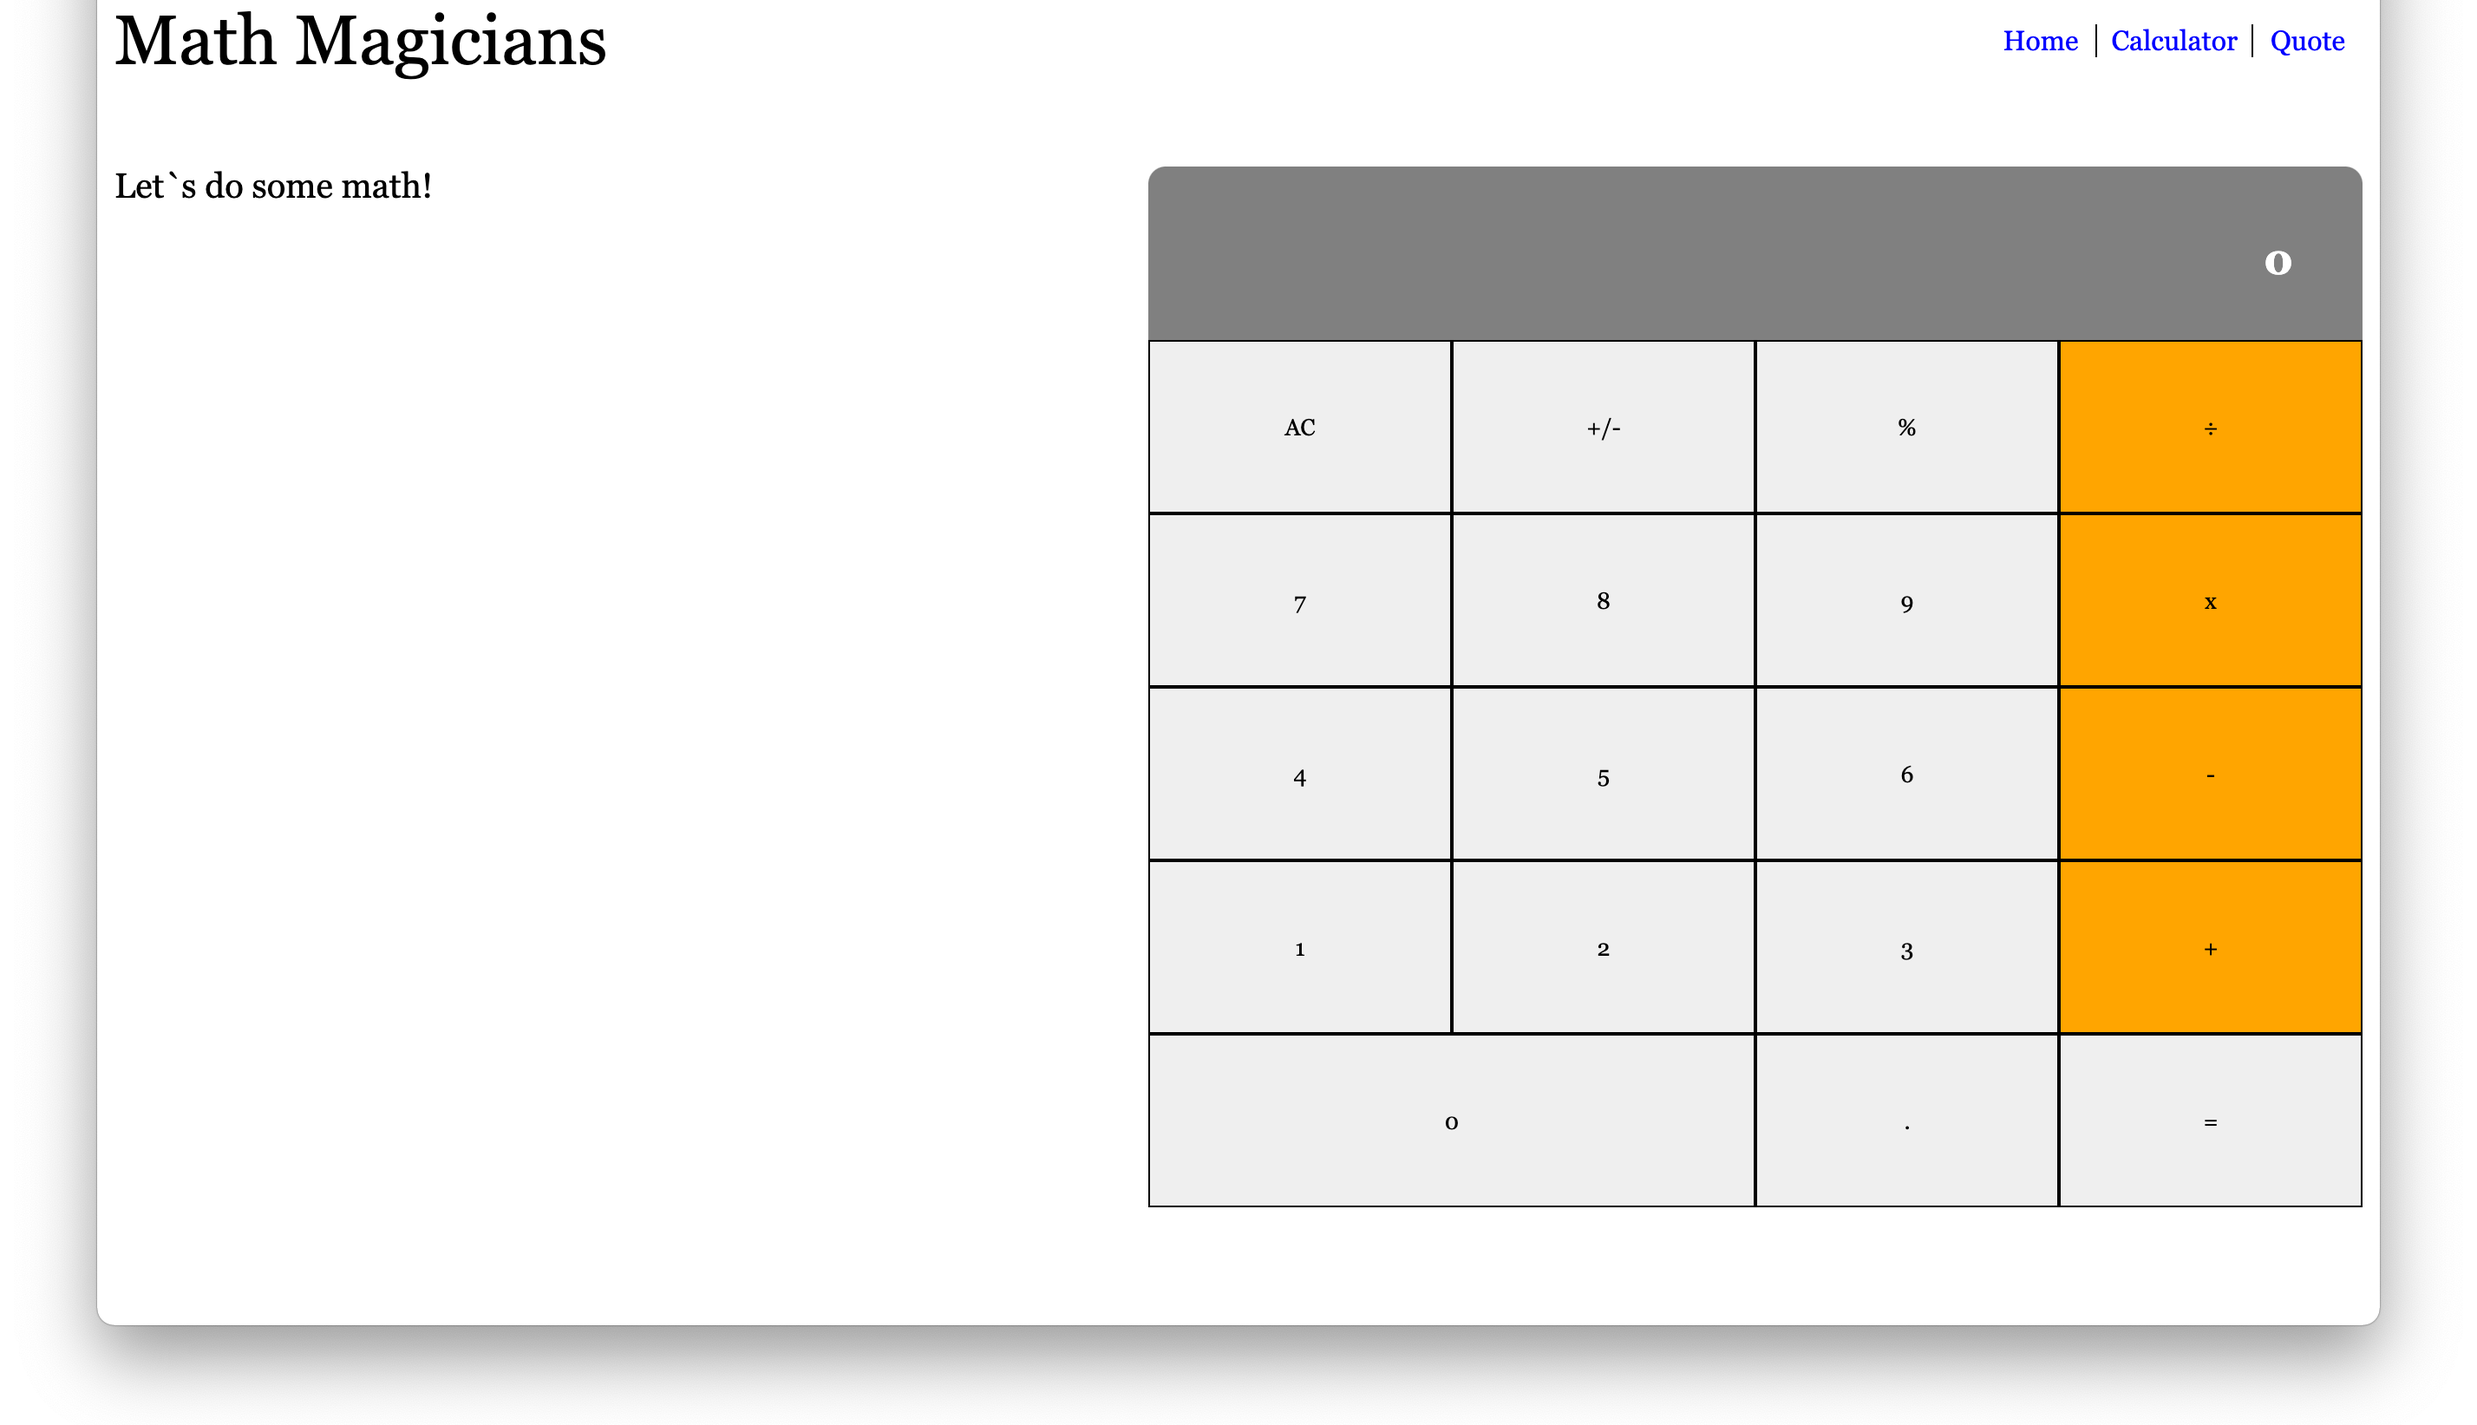
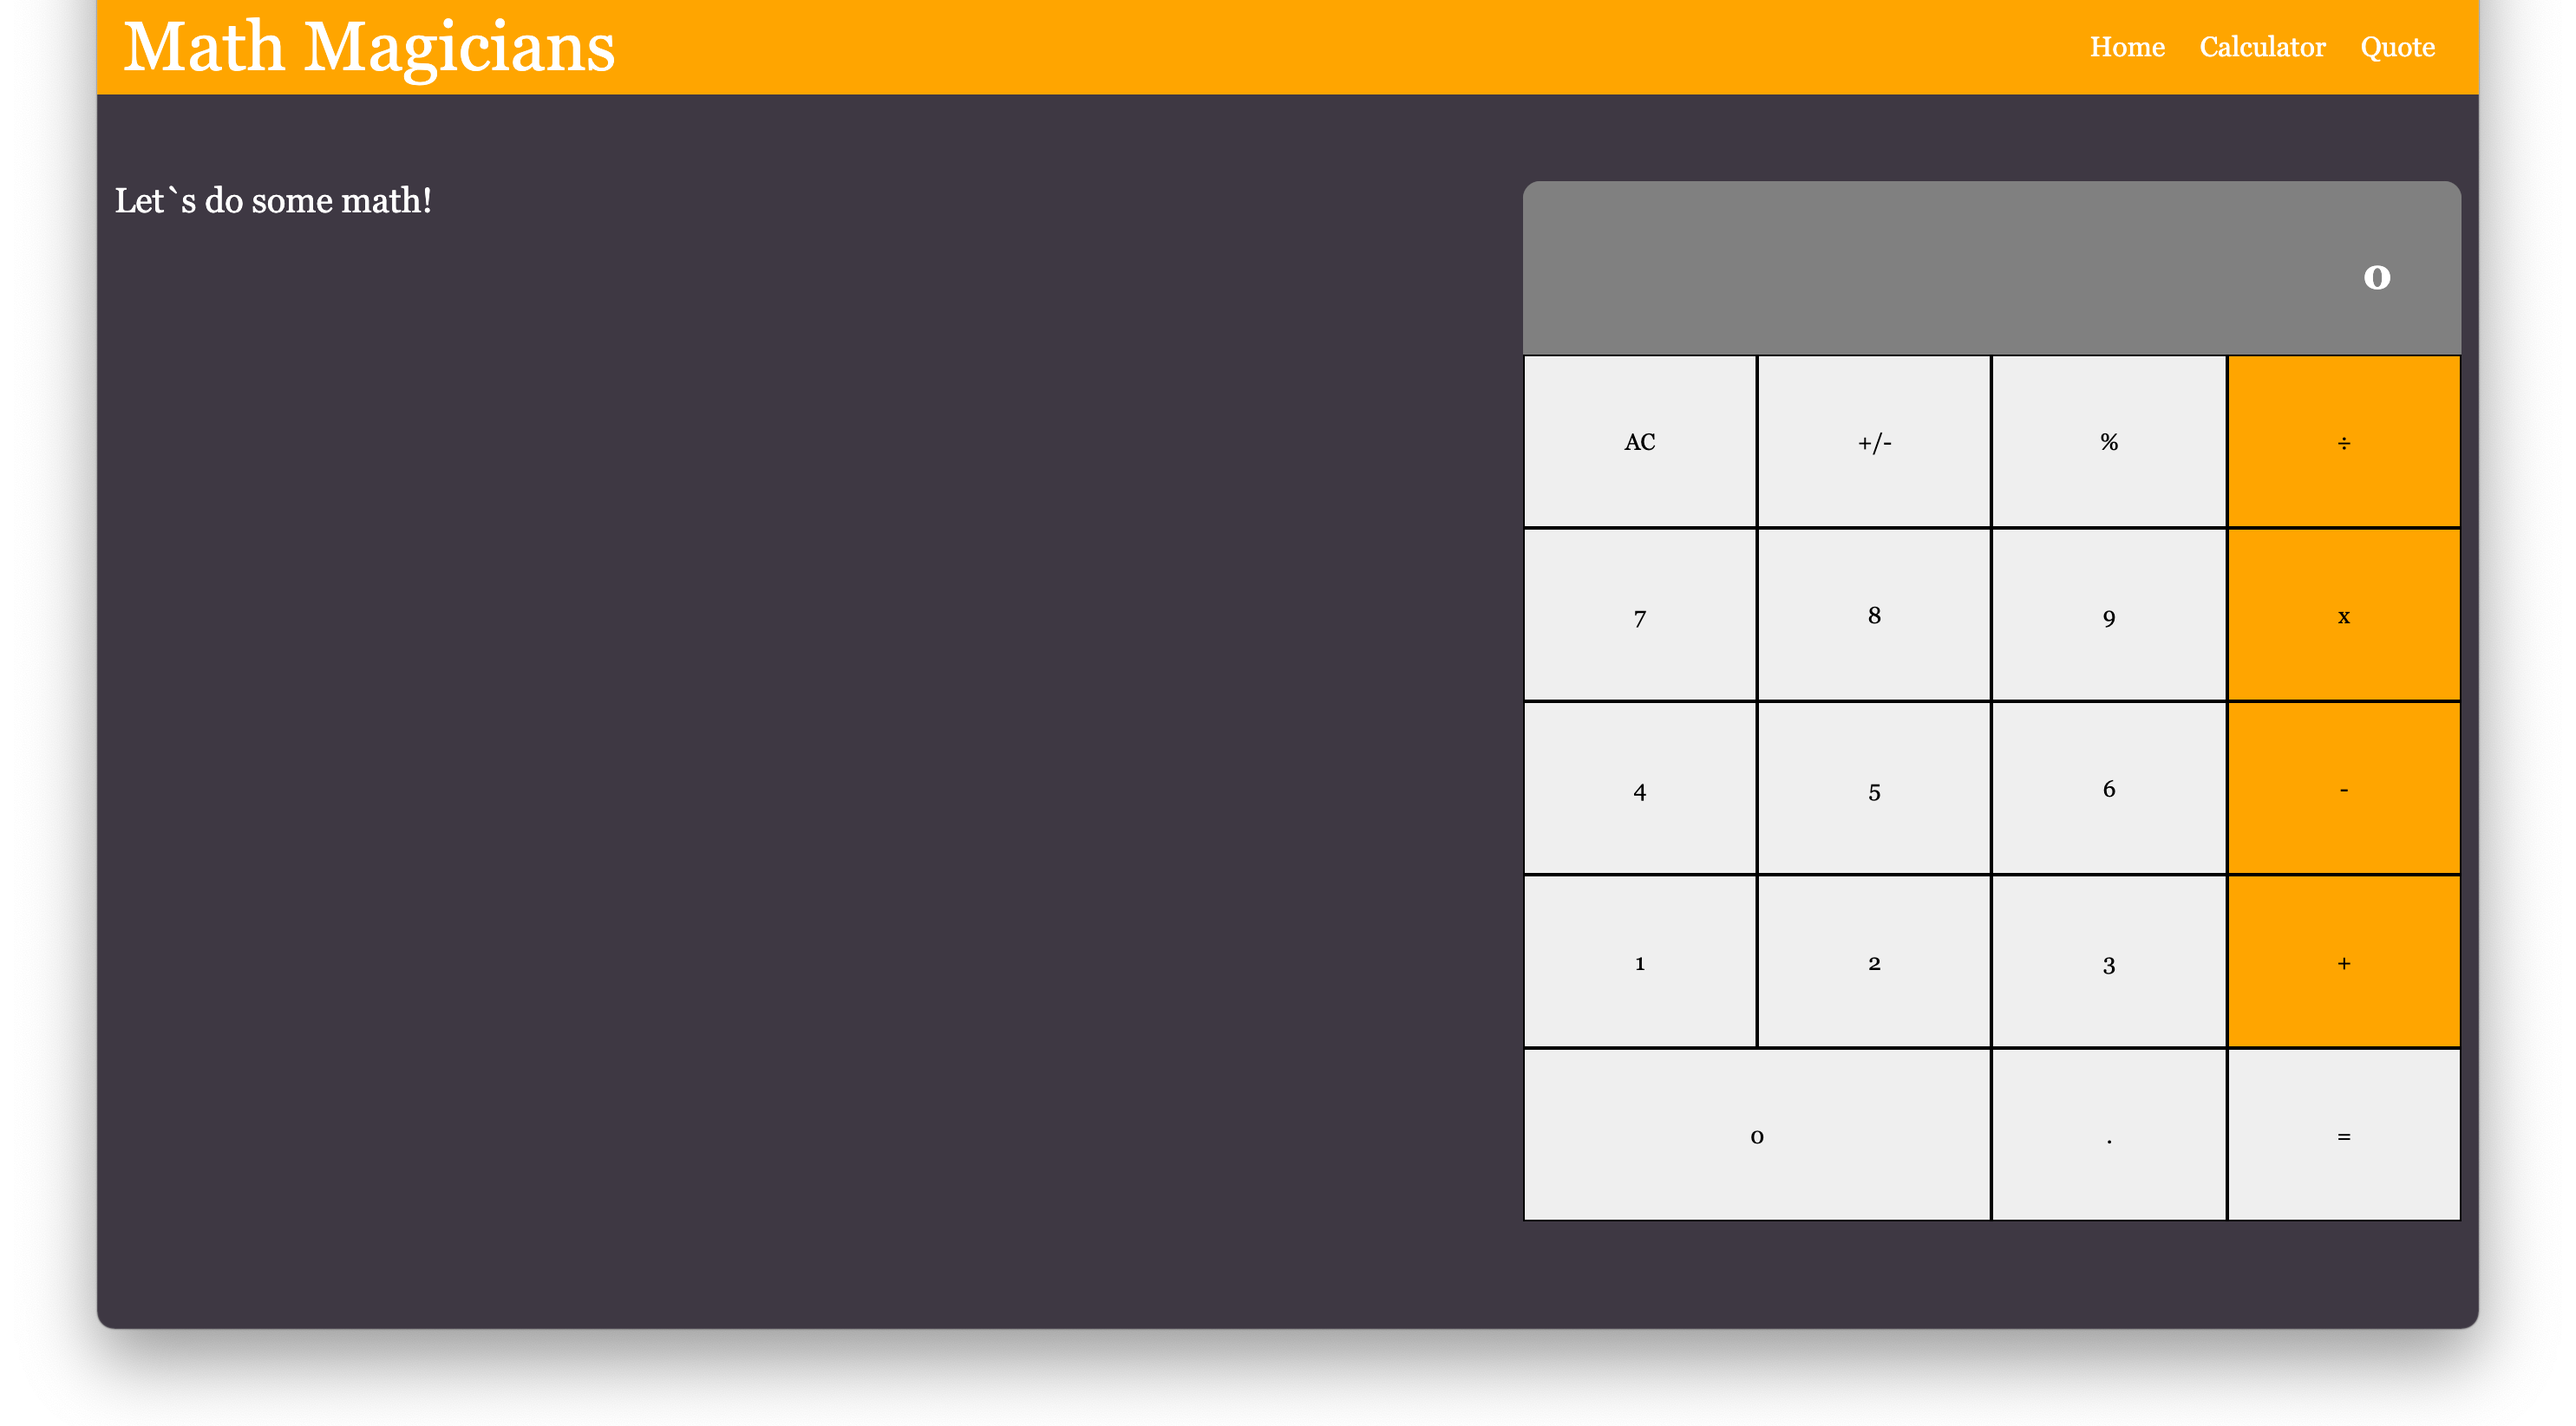
edit styling and main sc png

diff --git a/src/components/App.js b/src/components/App.js
@@ -34,12 +34,14 @@ const App = () => {
       </header>
       <main>
         <section className="calc-main">
-          <div>
+          <div style={{ width: '60%' }}>
             <Calculator />
           </div>
-          <div>
-            <Display result={update()} />
-            <ButtonPanel handleClick={handleClick} />
+          <div style={{ width: '40%' }}>
+            <div className="calculator">
+              <Display result={update()} />
+              <ButtonPanel handleClick={handleClick} />
+            </div>
           </div>
         </section>
       </main>

diff --git a/src/index.css b/src/index.css
@@ -50,7 +50,8 @@ nav a:hover {
 }
 
 .calculator {
-  width: 700px;
+  max-width: 700px;
+  min-width: 200px;
   background-color: gray;
   border-radius: 10px 10px 0 0;
 }
@@ -91,6 +92,7 @@ nav a:hover {
   display: flex;
   justify-content: space-between;
   padding: 50px 10px 0 10px;
+  width: 100%;
 }
 
 .quote {
